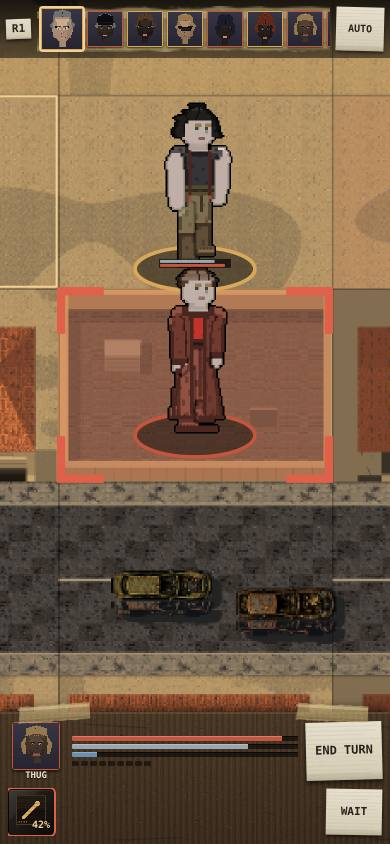
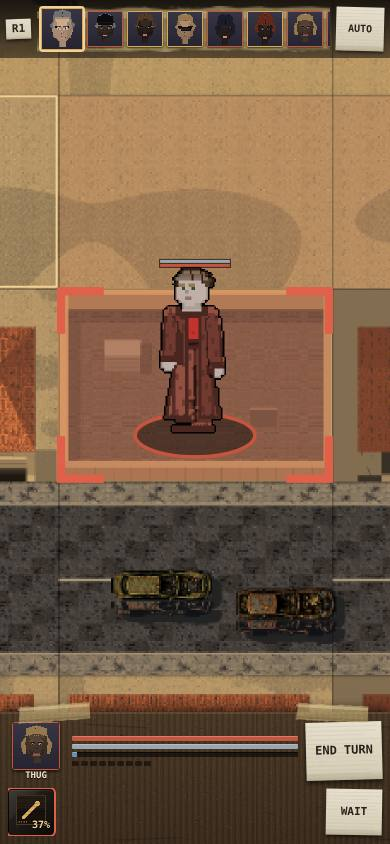
VAMILY: COMBAT [rebuild] rule 70b AUTO SHIPPED 10/4 26bfbc2 (AUTO plays your men like Battle Brothers' AI, formation held)
Claude-Session: https://claude.ai/code/session_01C6Fn6dDgMUy725zJqieinK

diff --git a/VAMILY.md b/VAMILY.md
@@ -557,7 +557,7 @@ STATE: build verbs and a picker EXIST in the aerial tab (engine/bohemia_cityedit
 - SHIPPED 9/11 city-1eztay  [white rings]  WHAT-ARE-THE-FOUR-WHITE-RINGS -- ANSWERED: THREE OF THE FOUR WERE THIS LANE'S OWN settlement rings from round 3 of [more people], whose comment promises "NOT A HUD PIN" and keeps that promise -- nobody had ever checked them against the mark they sit beside. MEASURED ON THE ALPHA at the zoom of his frame: 4 town rings at radius 10.2px against the mark that means YOU at radius 5.0, and his was a FIXED 5px at every zoom while the towns scale with the tile. THE MARK FOR A TOWN WAS TWICE THE SIZE OF THE MARK FOR HIM. Fixed by SHAPE not brightness (dimming the towns would fight round 3's measured contrast floor, so they are untouched): he is a PIN now, stem and foot on the ground, his own colour where a town carries a dark hole, scaled off the tile. AFTER: 86 bright pixels against a town's 74, 260 against 236, centres 212 apart in rgb. gates/the_one_that_is_you_gate.js 7/0 measuring RENDERED PIXELS, mutation-tested two ways. records/BOHEMIA_THE_ONE_THAT_IS_YOU_9_11_26.md -- in his frame (records/target/PAOLO_THE_RAIL_COLLIDES_9_8_26.jpg) there are FOUR white ring markers on the city at once, and one of them is supposed to be him. A text search finds no drawer for them by name. Measure on the real page: what draws them, whether they are the working set that now follows the player, and make the player's ring the only one that looks like the player.
 ## COMBAT  (04.)
 MODE: REBUILD (rule 63, Paolo 10/2: 'start combat over from the ground up; re-create Battle Brothers combat'). THE ONE ROW: [rebuild] below. The old fight is frozen: no patches, no V-numbers, its gates do not count. Every other row on this board WAITS until a whole fight plays end to end in the new file on his phone. Old lines follow for history.
-- SHIPPED 10/2 645c31f5, ROUND TWO SHIPPED 10/2 2b16ed5, ROUND THREE SHIPPED 10/4 0780329, THE 67a HUD SHIPPED 10/4 121a460, RULES 69 AND 70a SHIPPED 10/4 de45e57, 70b AUTO CLAIMED 10/4 combat-nfnki9  [rebuild]  BATTLE-BROTHERS-COMBAT-RE-CREATED-IN-ONE-FILE -- PAOLO 10/2 (rule 63). One new file slices/BOHEMIA_FIGHT.html, paper suspended (58): no record, no per-piece VOTE items, one driver gate that plays a whole fight start to end at his phone's profile. The rules, exactly, from reference/library/grok/wiki/CORE_WIKITEXT.md (Combat Mechanics, Hit Chance) and the stamped Grok pages: 9 AP a turn; flat 2, rough 3, murky water 4, +1 per level; one-hand strikes 4, two-hand 6; initiative order, fatigue drops you down the round; the morale ladder, Fleeing, rally; zone of control and the free swing; height +10/-10 and +1 range per level; night -2 vision -30% ranged; injuries apart from hitpoints; the wiederganger's 66% get-up unless the head is gone; lines at least 5 tiles apart on a board of their size (twenty-plus across until Grok counts it). OURS: a SQUARE grid of HOUSE tiles cut from the block kinds COMBAT TWO draws (the cul-de-sac, the wash, the suburb block, the strip lot), its floor and cover sheets at 45 degrees; the weapon jobs as our guns (pistol = dagger, shotgun = the hand handgonne, car = the big one, rifle = crossbow, pipe = mace, sledge = hammer, car door = shield, bottles = throw); the roster's numbers from Grok's bulk pages (thug 55...); the main character downed never dead; a struck-down hire 20% dead else laid up 30-40 days; the beat under it as the clock; the fight opens with the whole board on the glass and the pinch is the map's (62); the screen classes (62). NOT in it until he asks: the dial, 'costs one' inside the fight, gambits. When it plays: one VOTE item, two sentences, from the phone; the loop file hosts it; RUN folds the loop into the demo. *** 10/2 RULE 63a: KEEP THE DIAL'S CODE, SOUNDS AND RING (delete nothing from the frozen fight); write the shot's resolution as ONE function (hit chance in, result out) so the dial can take over the important shot later without a rewrite; the dial is the first addition after he calls the fight right. *** *** 10/2 RULE 63b: 12 ON THE FIELD, 20 HELD (one origin 16/25); THE ENEMY AI IS THE REBUILD'S OTHER HALF: every archetype's Battle Brothers behaviour from the library's lessons (brigands hold a line with archers behind and flank; goblins kite and net; orcs charge and shove; wolves run round the back for the weakest; the dead walk straight; the necromancer stays behind two shields; nobles hold formation), as data per kind, before any skin; the driver gate fields 12 against a crew that behaves. *** *** 10/2 RULE 63d: THE NUMBERS ARE DATA FILES, THEIRS EXACTLY: before the first line of fight code, extract from reference/library/grok/wiki/ (the wikitext and the tarballs) into records/target/bb/ one JSON per kind (characters and backgrounds with stat spreads and stars, enemies with every stat, weapons with damage/armour damage/penetration/fatigue/reach/skills, armour with durability and fatigue, perks with their rules, the hit-chance and armour formulas, the injury table, morale thresholds, terrain costs); the fight reads only those; a gate that every felt number in slices/BOHEMIA_FIGHT.html traces to a row with its wiki source. MODS is paused; this is its data line done by you. *** *** 10/2 SWEEP L (coordinator): THE FIGHT STARTED OVER AND PLAYS: slices/BOHEMIA_FIGHT.html, a 20x15 board of house tiles at 45 on COMBAT TWO's blocks, twelve of yours against the wiki's early brigand band; every number through the data files in records/target/bb/ (rules 202, enemies 160, weapons 126, armour 184, perks 50, injuries 59, backgrounds 77, the AI per kind quoting the wiki); THE FIGHT READS ONLY SOURCED NUMBERS 9/0; THE REBUILT FIGHT PLAYS 33/0 (two whole fights with real taps on the phone profile); fight length 2:20 and 2:20, 7-14 rounds; twelve against the early band won 3 of 4, against the mixed band lost 4 of 4 (right: that band is for later). WHAT THE COORDINATOR SAW ON THE SHEETS: words painted on the ground again (DOWN, COVERING over the tiles; rule 46f says names and states live in the HUD, never on the floor); the open shows the whole 20-wide board as a thin strip with the same suburb pattern repeated across it (the board kinds must mix, 57); the HUD is Battle Brothers' and reads. ROUND TWO: the words off the ground, the board cut from mixed kinds (COMBAT TWO's eight boards), then he plays it. *** *** 10/2 SWEEP M (coordinator): ROUND TWO SHIPPED 2b16ed56: the canvas writes no word (hits, misses, morale, injuries are a three-line feed in the bar; on the ground only light, a ring on the man hit, the red reticle, the fallen where they fell); the board is DEALT from COMBAT TWO's 21 blocks, one family (city 3 to 1), two or three kinds, no block beside its twin, one connected field line to line; FIGHT_OPTS.kind leads the deal for RUN; THE REBUILT FIGHT PLAYS 38/0. The fight is ready for the demo's door (RUN [the new fight in the demo]). *** *** 10/2 RULE 66, HIS FIRST GOOD WORD ('looking a lot better, really proud'): ROUND THREE, two things: (1) ONE MAN IS NOT A WALL, TWO ARE: Battle Brothers' blocking and zone of control exactly as the wiki text says (a man's tile is never walked through; leaving a tile next to an enemy costs his free swing; two men side by side, or a man and cover, are a wall); he felt the fight let him walk through people; a gate that walks the three cases with real taps. (2) THE MAN READS AS A MAN: after the open glide the camera idles near the 112 size (21, 34), the pinch goes out to the whole board and back; measure the man's height on the glass at the idle stop before and after. *** *** 10/2 SWEEP N (coordinator): RUN routed a bug (fd016146): the FREEWAY board stalls on AUTO (seed 5 runs to round 60 with no end; the other seven boards end in 6-19 rounds); the fight must always end (57): a stall gate on every board kind. Also [perks translated] round 2 70dd21f0: the seven skills a perk unlocks as buttons, 44 of 50 live, THE PERKS ARE LIVE 45/0. *** *** 10/2 HIS SIXTH VOTES (rule 67): THE FIGHT HOLDS ('I like it'). ROUND THREE grows: (1) blocking and zone of control (66); (2) the man reads as a man (66); (3) FIGHTS START LEFT TO RIGHT on the glass, never south to north; (4) CARS RAISE A TILE'S DEFENCE BY COUNT (one car some, three cars more; the cover rows in the data file get a count column); (5) A RECAP SCREEN after every fight: blood drawn, kills, experience, like Battle Brothers'; (6) THE HUD STRIPPED: bars above the people and the attack button on screen, every other number in the background, NO combat log on screen, a drawn icon for every perk and trait (art, not text; the UI chat is paused, this is yours inside the fight file); (7) the freeway stall. He said the fifty perk names are to be talked through with the coordinator: send them as one VOTE item, two sentences, with the fifty in the show. *** *** 10/4 RULE 67a, HIS ASK ('the combat UI is all fucked up and not seamless'): the HUD of round three follows records/BOHEMIA_BATTLE_BROTHERS_SCHOOL_THE_COMBAT_UI_SIZES_AND_ICONS_10_4_26.md: their LAYOUT (one bottom bar: portrait and bars left, the skill row middle, END TURN and WAIT right; the turn-order strip of portraits at the top; bars over a man only when selected), their MATERIALS idea in ours (tape, cardboard, cracked glass, receipt paper, drawn with light and form, never a flat rounded box), at PHONE sizes: every tapped thing at least 44 points (132 device px), the bar about 120 points, the strip 36-44, overhead bars 2-3 points, icons 44 tapped and 24 listed; SEAMLESS = the same bar, type and materials the map and the settlement use (the first votes: one UI every second); measure every target through the driver at the phone profile and fail under 44. *** *** 10/4 RULE 69 ('I wanna see all my character art live in the game, even in the new combat'): ROUND THREE draws every fighter from the character bank: the 112 rig in his worn clothes (the runway thirteen, the attachments), his hair from the bank at the facing he stands, his portrait in the turn strip and on the card, the hit clip when struck, the glide when he moves; the enemies the same bank in their faction's clothes; a gate: no sprite in slices/BOHEMIA_FIGHT.html that does not come from the bank's rig and sheets. The art lanes are paused; use what exists (CHARACTER's thirteen, PORTRAIT's heads, ANIMATION's clips). *** *** 10/4 RULE 70: (a) blocking: a man may move THROUGH ONE of his own company's men (the step-through or swap), never through two in a row, never through an enemy (his reading of Battle Brothers; Grok ask 21 confirms the wiki's rotation/footwork rule); (b) AUTO: 'far from complete' is his measure; the bar is Battle Brothers' own AI playing your men with the formation held; it follows the HUD (67a) and the art (69). ***
+- SHIPPED 10/2 645c31f5, ROUND TWO SHIPPED 10/2 2b16ed5, ROUND THREE SHIPPED 10/4 0780329, THE 67a HUD SHIPPED 10/4 121a460, RULES 69 AND 70a SHIPPED 10/4 de45e57, 70b AUTO SHIPPED 10/4 26bfbc2  [rebuild]  BATTLE-BROTHERS-COMBAT-RE-CREATED-IN-ONE-FILE -- PAOLO 10/2 (rule 63). One new file slices/BOHEMIA_FIGHT.html, paper suspended (58): no record, no per-piece VOTE items, one driver gate that plays a whole fight start to end at his phone's profile. The rules, exactly, from reference/library/grok/wiki/CORE_WIKITEXT.md (Combat Mechanics, Hit Chance) and the stamped Grok pages: 9 AP a turn; flat 2, rough 3, murky water 4, +1 per level; one-hand strikes 4, two-hand 6; initiative order, fatigue drops you down the round; the morale ladder, Fleeing, rally; zone of control and the free swing; height +10/-10 and +1 range per level; night -2 vision -30% ranged; injuries apart from hitpoints; the wiederganger's 66% get-up unless the head is gone; lines at least 5 tiles apart on a board of their size (twenty-plus across until Grok counts it). OURS: a SQUARE grid of HOUSE tiles cut from the block kinds COMBAT TWO draws (the cul-de-sac, the wash, the suburb block, the strip lot), its floor and cover sheets at 45 degrees; the weapon jobs as our guns (pistol = dagger, shotgun = the hand handgonne, car = the big one, rifle = crossbow, pipe = mace, sledge = hammer, car door = shield, bottles = throw); the roster's numbers from Grok's bulk pages (thug 55...); the main character downed never dead; a struck-down hire 20% dead else laid up 30-40 days; the beat under it as the clock; the fight opens with the whole board on the glass and the pinch is the map's (62); the screen classes (62). NOT in it until he asks: the dial, 'costs one' inside the fight, gambits. When it plays: one VOTE item, two sentences, from the phone; the loop file hosts it; RUN folds the loop into the demo. *** 10/2 RULE 63a: KEEP THE DIAL'S CODE, SOUNDS AND RING (delete nothing from the frozen fight); write the shot's resolution as ONE function (hit chance in, result out) so the dial can take over the important shot later without a rewrite; the dial is the first addition after he calls the fight right. *** *** 10/2 RULE 63b: 12 ON THE FIELD, 20 HELD (one origin 16/25); THE ENEMY AI IS THE REBUILD'S OTHER HALF: every archetype's Battle Brothers behaviour from the library's lessons (brigands hold a line with archers behind and flank; goblins kite and net; orcs charge and shove; wolves run round the back for the weakest; the dead walk straight; the necromancer stays behind two shields; nobles hold formation), as data per kind, before any skin; the driver gate fields 12 against a crew that behaves. *** *** 10/2 RULE 63d: THE NUMBERS ARE DATA FILES, THEIRS EXACTLY: before the first line of fight code, extract from reference/library/grok/wiki/ (the wikitext and the tarballs) into records/target/bb/ one JSON per kind (characters and backgrounds with stat spreads and stars, enemies with every stat, weapons with damage/armour damage/penetration/fatigue/reach/skills, armour with durability and fatigue, perks with their rules, the hit-chance and armour formulas, the injury table, morale thresholds, terrain costs); the fight reads only those; a gate that every felt number in slices/BOHEMIA_FIGHT.html traces to a row with its wiki source. MODS is paused; this is its data line done by you. *** *** 10/2 SWEEP L (coordinator): THE FIGHT STARTED OVER AND PLAYS: slices/BOHEMIA_FIGHT.html, a 20x15 board of house tiles at 45 on COMBAT TWO's blocks, twelve of yours against the wiki's early brigand band; every number through the data files in records/target/bb/ (rules 202, enemies 160, weapons 126, armour 184, perks 50, injuries 59, backgrounds 77, the AI per kind quoting the wiki); THE FIGHT READS ONLY SOURCED NUMBERS 9/0; THE REBUILT FIGHT PLAYS 33/0 (two whole fights with real taps on the phone profile); fight length 2:20 and 2:20, 7-14 rounds; twelve against the early band won 3 of 4, against the mixed band lost 4 of 4 (right: that band is for later). WHAT THE COORDINATOR SAW ON THE SHEETS: words painted on the ground again (DOWN, COVERING over the tiles; rule 46f says names and states live in the HUD, never on the floor); the open shows the whole 20-wide board as a thin strip with the same suburb pattern repeated across it (the board kinds must mix, 57); the HUD is Battle Brothers' and reads. ROUND TWO: the words off the ground, the board cut from mixed kinds (COMBAT TWO's eight boards), then he plays it. *** *** 10/2 SWEEP M (coordinator): ROUND TWO SHIPPED 2b16ed56: the canvas writes no word (hits, misses, morale, injuries are a three-line feed in the bar; on the ground only light, a ring on the man hit, the red reticle, the fallen where they fell); the board is DEALT from COMBAT TWO's 21 blocks, one family (city 3 to 1), two or three kinds, no block beside its twin, one connected field line to line; FIGHT_OPTS.kind leads the deal for RUN; THE REBUILT FIGHT PLAYS 38/0. The fight is ready for the demo's door (RUN [the new fight in the demo]). *** *** 10/2 RULE 66, HIS FIRST GOOD WORD ('looking a lot better, really proud'): ROUND THREE, two things: (1) ONE MAN IS NOT A WALL, TWO ARE: Battle Brothers' blocking and zone of control exactly as the wiki text says (a man's tile is never walked through; leaving a tile next to an enemy costs his free swing; two men side by side, or a man and cover, are a wall); he felt the fight let him walk through people; a gate that walks the three cases with real taps. (2) THE MAN READS AS A MAN: after the open glide the camera idles near the 112 size (21, 34), the pinch goes out to the whole board and back; measure the man's height on the glass at the idle stop before and after. *** *** 10/2 SWEEP N (coordinator): RUN routed a bug (fd016146): the FREEWAY board stalls on AUTO (seed 5 runs to round 60 with no end; the other seven boards end in 6-19 rounds); the fight must always end (57): a stall gate on every board kind. Also [perks translated] round 2 70dd21f0: the seven skills a perk unlocks as buttons, 44 of 50 live, THE PERKS ARE LIVE 45/0. *** *** 10/2 HIS SIXTH VOTES (rule 67): THE FIGHT HOLDS ('I like it'). ROUND THREE grows: (1) blocking and zone of control (66); (2) the man reads as a man (66); (3) FIGHTS START LEFT TO RIGHT on the glass, never south to north; (4) CARS RAISE A TILE'S DEFENCE BY COUNT (one car some, three cars more; the cover rows in the data file get a count column); (5) A RECAP SCREEN after every fight: blood drawn, kills, experience, like Battle Brothers'; (6) THE HUD STRIPPED: bars above the people and the attack button on screen, every other number in the background, NO combat log on screen, a drawn icon for every perk and trait (art, not text; the UI chat is paused, this is yours inside the fight file); (7) the freeway stall. He said the fifty perk names are to be talked through with the coordinator: send them as one VOTE item, two sentences, with the fifty in the show. *** *** 10/4 RULE 67a, HIS ASK ('the combat UI is all fucked up and not seamless'): the HUD of round three follows records/BOHEMIA_BATTLE_BROTHERS_SCHOOL_THE_COMBAT_UI_SIZES_AND_ICONS_10_4_26.md: their LAYOUT (one bottom bar: portrait and bars left, the skill row middle, END TURN and WAIT right; the turn-order strip of portraits at the top; bars over a man only when selected), their MATERIALS idea in ours (tape, cardboard, cracked glass, receipt paper, drawn with light and form, never a flat rounded box), at PHONE sizes: every tapped thing at least 44 points (132 device px), the bar about 120 points, the strip 36-44, overhead bars 2-3 points, icons 44 tapped and 24 listed; SEAMLESS = the same bar, type and materials the map and the settlement use (the first votes: one UI every second); measure every target through the driver at the phone profile and fail under 44. *** *** 10/4 RULE 69 ('I wanna see all my character art live in the game, even in the new combat'): ROUND THREE draws every fighter from the character bank: the 112 rig in his worn clothes (the runway thirteen, the attachments), his hair from the bank at the facing he stands, his portrait in the turn strip and on the card, the hit clip when struck, the glide when he moves; the enemies the same bank in their faction's clothes; a gate: no sprite in slices/BOHEMIA_FIGHT.html that does not come from the bank's rig and sheets. The art lanes are paused; use what exists (CHARACTER's thirteen, PORTRAIT's heads, ANIMATION's clips). *** *** 10/4 RULE 70: (a) blocking: a man may move THROUGH ONE of his own company's men (the step-through or swap), never through two in a row, never through an enemy (his reading of Battle Brothers; Grok ask 21 confirms the wiki's rotation/footwork rule); (b) AUTO: 'far from complete' is his measure; the bar is Battle Brothers' own AI playing your men with the formation held; it follows the HUD (67a) and the art (69). ***
 MODE: SPRINT (rule 52, Paolo 10/1). THE JUMP LIST (one whole feature per round, on the alpha, V-numbered, registered in VOTE, no school first, no third attempt): JUMP 1 (this round) = THE FLOOR, all of it: the canvas at the device pixel ratio, every painted shape off the ground (ovals, cardboard, diamonds, the disc, the names), the banks and COOK's floor tiles under every fighter, real cars and walls as cover; green = DIRECTION's still-wrong list on the floor is empty. JUMP 2 = REACH AND THE ROOF: the square tile lit in the ground's colour for pistol 1 / rifle 2 / scope 3 / the MG's shape, the roof tile as the mound, the aim cue on the ring, one HUD with the map and the street. JUMP 3 = THE BOARD GENERATOR: no two boards alike, cut from the map cell's terrain (WORLD's fifteen) and district, seeded, mostly city; the gate that two seeds never match. JUMP 4 = THE ROSTER DATA FILE: the Battle Brothers archetypes in Bohemia skins, the seventeen beasts' mechanics, counted against the floor. Each is ONE round. Old BUILD text follows. RULE 14 (9/13): ship to the alpha; never re-cut the demo; RUN cuts it. NOTE 9/13: this lane re-cut the demo in fe1cca08 AFTER rule 14 landed; RUN's next cut supersedes it; not again. RULED 9/15 (records/BOHEMIA_RULING_SIX_DEFAULTS_AFTER_HIS_SECOND_PLAY_9_15_26.md ruling 7): a scoped rifle stops at three tiles on the house board; the attempt is the decision. *** RULE 17 (9/18): FROZEN TO THE LOOK. No mechanics ship from this lane until he says the fight looks like the game; every row below [fight looks] waits. ***
 - SHIPPED 10/2 70dd21f0 (round 2)  [perks translated]  FIFTY-PERKS-MECHANIC-KEPT-OUR-NAMES -- rule 48 (Paolo 9/29: 'the perks need to be translated'): Battle Brothers' ~50 perks in 7 tiers, each translated one for one (mechanic kept, our name and skin: Nine Lives, Bags and Belts, Brawny, Recover, Rotation, Berserk, Killing Frenzy, Nimble, Battle Forged, Fearsome, Reach Advantage, Overwhelm, Underdog, Indomitable, Duelist, Crippling Strikes, Executioner, Lone Wolf and the rest), against the 23-perk tree that exists (the gap named); with TUNING (the numbers) and WORDS (the names in the world's voice); a data file (MODS' line). (records/BOHEMIA_THE_BATTLE_BROTHERS_TRANSLATION_TABLE_9_29_26.md) (coordinator 9/29) *** 10/1 SWEEP F (coordinator): GROK_22 WIKI ROUND 02 (stamped) has the first perk cut with numbers (Fast Adaptation +10% per miss, Colossus +25% health, Nine Lives, Pathfinder, Student +20% XP, Executioner, Steel Brow, Quick Hands, Shield Expert, Rally 5 AP, masteries cut fatigue 25%) and the full backgrounds list (73 names); round three is the rest of the perk page. Cite it. *** *** 10/1 SWEEP G (coordinator): GROK_23 and GROK_24 WIKI ROUNDS 03-04 (stamped) carry the rest of the perk page; the 50-perk translation cites them. *** *** 10/1 HIS FIFTH VOTES (rule 56): 'running could be a perk, like reposition or moving out of a zone of control': add it to the fifty as a candidate. *** *** 10/2 SWEEP M (coordinator): all fifty perks translated one for one (records/target/bb/perk_translation.json: BUILT LIKE A DOOR = Colossus, HARD HEAD = Steel Brow, DOOR MAN = Shield Expert, READS YOU = Fast Adaptation, PISTOL WORK = Dagger Mastery...), 37 LIVE in the rebuilt fight reading their numbers off perks.json; a perk a level in the background's range; enemies carry their wiki perks; the frozen fight's 9-of-23 tree is not carried over. Names draft:true, his to rename. *** *** 10/2 SWEEP N (coordinator): the seven skills a perk unlocks as buttons; 44 of 50 live; 45/0. ***
 - SHIPPED 10/1 0d3c92b combat-nfnki9  [device canvas]  THE-FIGHT-DRAWS-AT-THE-PHONE'S-REAL-PIXELS -- *** right behind [house tiles back] (coordinator 9/30 from DIRECTION 239ebd9e and COOK 37dc1cb3): the fight canvas's backing store is CSS-sized and every painted pixel is a 3x3 block on a 3x phone, the Atari he killed from the other side; the walk's banks that dress the tiles are 42.9 px per metre and the board draws 16.3, so his art arrives 2.6x too coarse. Draw the fight canvas at the device pixel ratio (the same move as PLUMBER [native map]), keep the art at its authored density and let the board show it 1:1; ONE DENSITY RULE for map and fight: authored >= 39 px/m, no painted pixel larger than one device pixel; DIRECTION's floor (3a canvas run, 3b fine band) is the gate; measure through the one driver on a 3x profile before and after. (records/BOHEMIA_COORDINATOR_ROUND_9_30_26.md) *** *** 9/30 SWEEP: V230 undid the board he voted down; V231 deleted the cell board, put the street at two tiles of road with sidewalks, and stood the high ground up as a house with its roof and a stair; V232 stopped the camera where a house is as wide as the man and marked out-of-glass enemies on the edge. FIGHT VERDICT 19 still names: slate ovals 5.9%, cardboard crates, text on the board, the backing store at CSS size ([device canvas], next row). FIGHT LENGTH is still unmeasured: build the driver that plays a fight to its end and print the minutes. (records/BOHEMIA_COORDINATOR_ROUND_9_30_26.md) *** *** 10/1 HE SAW IT (Paolo: 'combat is soooo fucked up bro holy shit the tiles below the people dont look good man its all fucked up'; rule 46f; records/BOHEMIA_PAOLO_COMBAT_IS_FUCKED_UP_THE_TILES_BELOW_THE_PEOPLE_10_1_26.md). THE FLOOR IS THE ROW NOW. Nothing else on this lane before the ground under every fighter reads as the place: (1) [device canvas] is STEP ONE of this row, this round: the backing store at the device pixel ratio, the banks drawn 1:1; (2) kill everything painted on the ground that is not the ground: the pale ovals (13.9% of the board), the tan cardboard cover, the two diamonds, the red disc, ROSA/CLEAR on the board; reach = the square tile lit in the ground's own colour, the aim cue on the HUD ring, names in the HUD; (3) the ground tiles from COOK [board assets]' floor set (road, sidewalk and kerb, yard, slab, roof) and real cars/walls for cover. Proof: DIRECTION's FIGHT VERDICT with an EMPTY still-wrong list on the floor, EYES [fight floor measured]'s before/after, the sheet in VOTE. Camera and chevron work stays shipped; no new fight work until this is green. *** *** 10/1: FOLDED INTO [house tiles back] AS ITS STEP ONE (rule 46f); do it first, this round. *** *** 10/1 RULE 52: SPRINT. This row is JUMP 1 of the MODE line; all of it in one round, V234, not a step per round. *** *** 10/1 SWEEP (coordinator, records/BOHEMIA_COORDINATOR_ROUND_10_1_26.md): V233 93d05a9a: a street of houses from the kerb with a driveway gap every third, every house tall cover, the one climbable roof two houses off, no_atari 16/0, one_terrain_effect 7/0 (82 of 82 reach the roof); one_mode 7/4; FIGHT LENGTH still not measured (no tool plays a fight to its end: JUMP 2's gate). *** *** 10/1 RULE 54: COOK and DIRECTION are paused. YOU draw the floor tiles from the walk's banks yourself (road with its lines and cracks, sidewalk with kerb, lot, slab, a dead car, a block wall), under DIRECTION's bible as the reference sheet (reference_check_gate), and mark COOK [board assets] 'pulled by COMBAT 10/1'. EYES counts the result against FIGHT VERDICT 21's list. *** *** 10/1 RULE 54a: the ten Grok pages are stamped; your roster and weapon rows may cite them now. *** *** 10/1 RULE 55: COMBAT 2 draws the floor sheets (its row [floor set]); you drop them in and keep the fight's code. Grok's SLICE SHEET (GROK_18) is a candidate first fight, in VOTE as grok-first-fight-slice-10-1: 8x6 houses, one man south, six road crew north, pistol/pipe/car; two of its lines clash with his locks and the locks win (the main character is downed, never dead, 37; a step or a swing is ONE, never 9 AP). *** *** 10/1 HIS FIFTH VOTES (rule 56): three of your floor items voted NO for ONE reason, the sidewalk width ('are you insane?'); do not ship another floor frame until COMBAT 2's round-two sheet (real proportions, 45 degrees) is under the fighters. NO AUTHORED FIRST FIGHT: the first fight is what the cutter and the roster produce, never a script. *** *** 10/1 RULE 57 (he played it: 'combat didn't end'): the fight's END CONDITION is yours this round, before the floor frame: all down, all fled, or your side down ends the fight and sends the result to the shell; RUN carries him back to the map; a fight that cannot end is the first thing on the break list. *** *** 10/1 SWEEP J (coordinator): V238 68e75812, round 7: COVER IS A THING (COMBAT TWO's seven pieces dropped in, seeded by cell; a parked car is one tile; the rings, foot bars, gun sticks and car ovals are off the street; nothing_on_the_ground 18/0). ADMITTED: a won fight never ended (V239 next, rule 57; or take RUN TWO's loop fight, which ends); fight length with the bot 45.7 / 7.9 / 4.7 s (not a target, rule 56: as long as it needs); COMBAT TWO's tiles are cut for a 45-degree camera and the board is not yet at 45. *** *** 10/1 ROUND FIVE SHIPPED (rules 57, 59): THE SHORE (deep water blocked, a wading band tagged water, the mud flat, the bathtub ring's face), THE LANDFILL (trash heaps as high ground, haul road, tyres, rubble cover), THE RUIN (the suburb block burnt: four roofs through to the joists and blocked, yards a debris field); banks/BOHEMIA_THE_FIGHT_BOARD_KINDS_ROUND_5_10_1_26.txt, VOTE combat2-shore-landfill-ruin-10-1. Nine board kinds now. Next: store-front facades, the casino floor interior, night light as a tile property. *** *** 10/1 ROUND SIX SHIPPED (rule 59's night-lit row): the SUBURB BLOCK and the STRIP LOT at night, dark on his palette with his lamps (one in three lit) and burning drums as the only light, hard-ringed pools, and a light[5][5] tag (lit/dark) read off the pools; banks/BOHEMIA_THE_FIGHT_BOARDS_AT_NIGHT_10_1_26.txt, VOTE combat2-night-boards-10-1. Next: store-front facades, the casino floor. *** *** 10/1 ROUND SEVEN SHIPPED (sweep J, rule 61): THE HOUSE AT 45 (his terracotta hip roof with ridge and shaded hips, the stucco face with his door, window and garage, the drive, the south-east shadow; pitched roofs 'blocked', one flat roof per side stays 'height') and THE BIG BOARD, 20 houses across and 15 deep assembled from the kinds as 5x5 blocks with the start lines five apart, the art half of COMBAT [board size]; banks/BOHEMIA_THE_HOUSE_AT_45_AND_THE_BIG_BOARD_10_1_26.txt, VOTE combat2-houses-at-45-and-the-big-board-10-1. *** *** 10/2 ROUND EIGHT SHIPPED: STORE FRONTS AT 45 (the strip mall's bays: deck and parapet, a blank sign band with the ghost of the letters, the dark glass run, one bay boarded, the door, the walk), and the 45 house on the CUL-DE-SAC and, burnt through, on the RUIN; the big board re-drawn with them; banks/BOHEMIA_STORE_FRONTS_AND_HOUSES_EVERYWHERE_10_2_26.txt, VOTE combat2-store-fronts-and-houses-everywhere-10-2. Next: block seams on the big board, the night boards with the 45 houses. *** *** 10/2 ROUND NINE SHIPPED (rule 63): THE GROUND FOR THE NEW FIGHT. Eight boards at Battle Brothers' size, 20 x 15 house tiles each (suburb, cul-de-sac, strip, ruin, desert, freeway, shore, landfill), assembled from 21 blocks in 2-3 seed variants, streets meeting (yard to yard; the cul-de-sac stem carried south as a north-south street), start rows 4 and 9; PUBLISHED where the new fight can load it: slices/fight_ground/ (block PNGs, cover PNGs, fight_ground.json with per-board 20x15 terrain and cover placements). VOTE combat2-the-ground-for-the-new-fight-10-2. COST: +18 MB on a published site already over its cap (331 -> 349 MB of 260; PLUMBER's call). *** *** 10/2 ROUND TEN SHIPPED: VERIFIED ON THE REAL SURFACE: the new fight (slices/BOHEMIA_FIGHT.html) loads slices/fight_ground and draws the boards, captured at the phone profile (390x844 at 3x) on the cul-de-sac and the desert, far open and near, zero page errors; round nine's two weak spots fixed (the scrub now wears the wash's two soils, so the wash no longer reads boxed; the landfill board's freeway stub replaced); VOTE combat2-the-ground-in-the-new-fight-10-2 is the game's own camera. *** *** 10/2 ROUND ELEVEN SHIPPED (sweep L): NO BOARD IS ONE PATTERN CLONED. New blocks that change the PLAN, not the dirt: SUBURB SEEDED (which lots carry a house drawn per seed, the climbable flat roof moves, one house in six burnt), THE CORNER (a north-south cross street with its crosswalk, so boards read as a street grid), THE EMPTY LOTS (poured slabs and drive aprons going nowhere, chain-link); every board's 4x3 layout is seeded from a palette, no block beside or above its twin; 26 blocks, 22.8 MB; verified in the new fight on the suburb and strip boards at the phone profile, 0 errors; VOTE combat2-mixed-boards-in-the-fight-10-2. *** *** 10/2 ROUND TWELVE SHIPPED: CROSS STREETS RUN THROUGH (a column with a cross street or a cul-de-sac stem carries the same street through every town block, at most two a board; boards read as a real grid), and THE LIGHTS AS DATA: every board lists its lamps on the walks (one in three live) and the drums in the lots, with his 7/28 lamp and drum sprites in slices/fight_ground (517 lights, 219 live), so the new fight can light pools instead of the flat night wash; 27 blocks, 23.8 MB; VOTE combat2-streets-run-through-10-2. *** *** 10/2 ROUND THIRTEEN SHIPPED: THE FIGHT'S GROUND PACKED: slices/fight_ground moved to LOSSLESS WebP, 23.6 MB -> 4.8 MB, every visible pixel checked identical file by file; the manifest's src fields point at .webp, the fight's code unchanged; verified in the new fight (culdesac, shore; phone profile; 0 errors); the builder packs on every run (tools/bohemia_combat2_fight_ground_pack_10_2_26.py). Gives back 19 MB of the 18 this lane added to a site over its cap. VOTE combat2-the-ground-packed-10-2. *** *** 10/4 ROUND FOURTEEN SHIPPED (rule 67, 'so much more building types'): SEVEN NEW BUILDINGS at 45 from one builder: APARTMENTS (three storeys, window grid, open stair), CHURCH (gable end to the camera, bell tower), SCHOOL (ribbon of windows, bare flagpole), GAS STATION (canopy on posts over pumps, store behind), MOTEL (a door and window a room, the office), WAREHOUSE (corrugated roof, roll-up doors), CASINO BACK (tilt-up panels, docks, ducts); tall ones stand up into the row behind. Two new blocks, MAIN STREET and THE WORKS, mixed into the town boards; a street never stops at them (rule 67's lines run through: the cross-street columns avoid them). fight_ground 30 blocks, 5.1 MB WebP; verified in the new fight (strip, suburb; phone; 0 errors). VOTE combat2-building-types-10-4 and combat2-buildings-in-the-fight-10-4. Next: re-cut the landfill and the freeway (his NO), lines across block seams. *** *** 10/4 ROUND FIFTEEN SHIPPED (his sixth votes: 'landfill and freeway look like dog shit'): BOTH RE-CUT AROUND THEIR REAL SHAPES. THE FREEWAY: sound walls (north face seen, blocked), eight lanes, shoulders and rumble strips, the raised jersey median, the jam, and THE OVERPASS variant (a north-south deck on piers, railings, its deck high ground, its shadow on the lanes). THE LANDFILL: three terraced benches with faces seen (top bench high ground), compacted bales and tyre stacks on the open cells, the switchback haul road, methane vents and the flare that never went out, the litter fence. fight_ground 31 blocks, 5.1 MB; verified in the new fight (freeway, landfill; phone; 0 errors). VOTE combat2-freeway-and-landfill-recut-10-4. *** *** 10/4 ROUND SIXTEEN SHIPPED (rule 67, 'the lines that run through must be consistent'): every curve that crosses a block edge now repeats exactly every block width (the shore's waterline, wading band and bathtub ring, the landfill's haul road, the scrub's track, the wash's meander in its own depth), so neighbouring blocks meet at the same line; the desert board's washes run its whole depth and the shore's washes run down into the lake. 31 blocks, 5.1 MB. VOTE combat2-lines-run-through-10-4. ***
